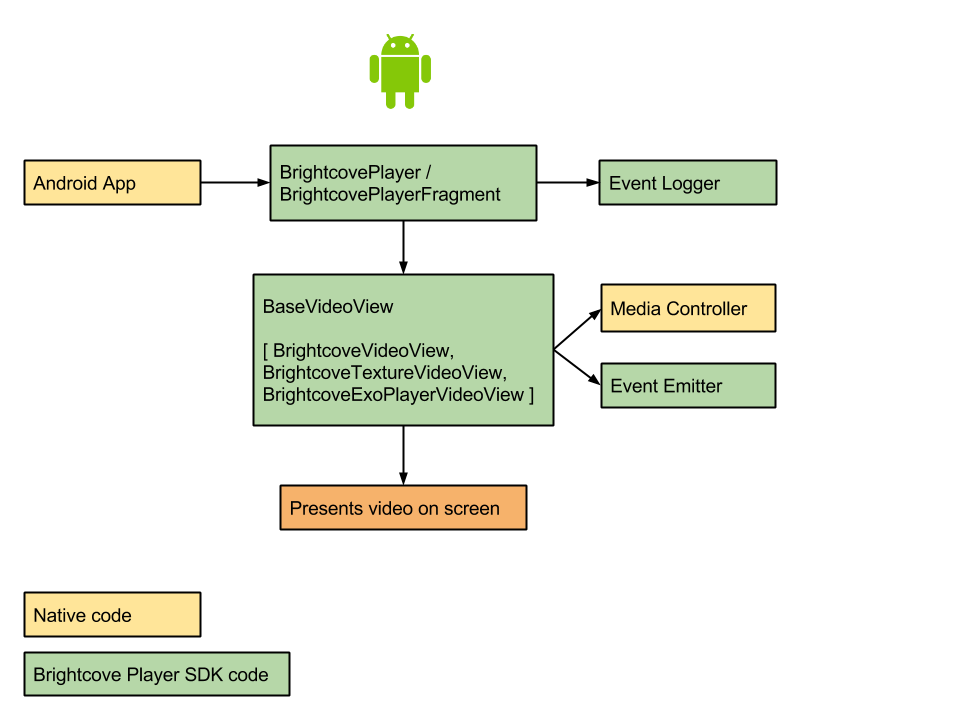
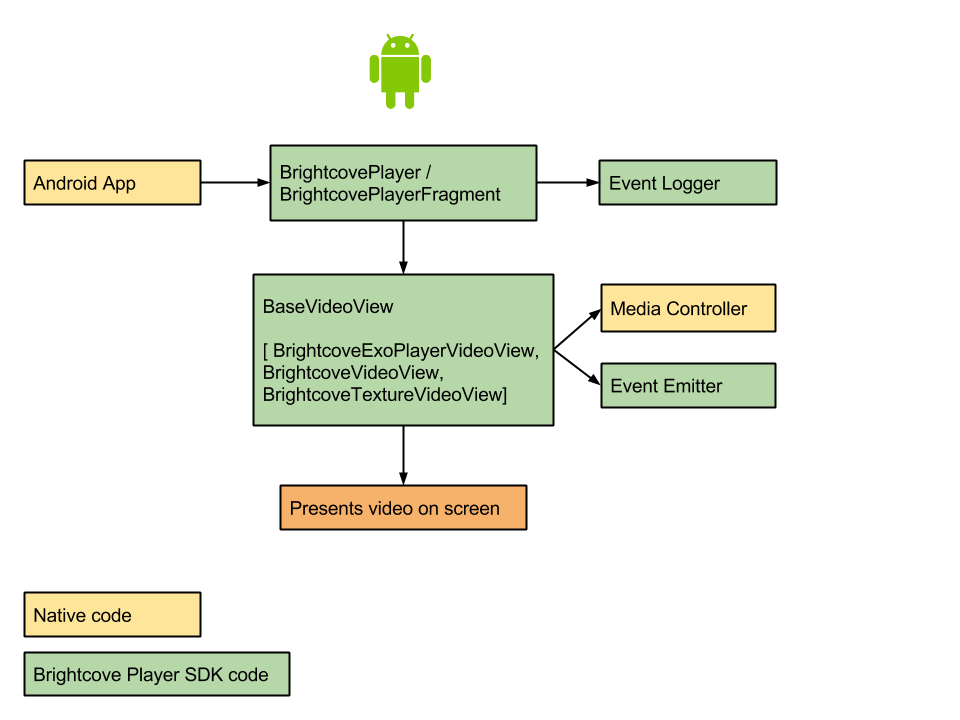
update Android docs for ExoPlayerVideoView

Changed region(s): [[0.375, 0.4583, 0.5625, 0.5806]]

diff --git a/en/perform/mobile-sdks/brightcove-player-sdk-for-android/getting-started/basevideoview.html b/en/perform/mobile-sdks/brightcove-player-sdk-for-android/getting-started/basevideoview.html
@@ -54,17 +54,17 @@
                 <p>The <code>BaseVideoView</code> subclasses can be used outside of a <code>BrightcovePlayer</code> or <code>BrightcovePlayerFragment</code>, but require life cycle management and full screen support to be implemented by the developer.</p>
                     <p>The subclasses for the <code>BaseVideoView</code> can be divided into the following categories:</p>
 
+                <h3>Basic and HLS video playback</h3>
+                <ul>
+                    <li><code>BrightcoveExoPlayerVideoView</code>
+                    <p>This class is designed to replace Android's native <code>VideoView</code>. It provides public methods to mirror that of <code>VideoView</code> and is a Java collection-like API for managing the internal playlist. It uses the Event workflow and will emit events related to video playback.</p>
+                    <p>This class also provides improved support for HLS playback by leveraging Google's ExoPlayer library. </p>
+                    <p>It is recommended to use this class for basic and HLS playback. For more details, see the <a href="../../hls-player/guides/exoplayer.html">HLS Playback with the Player SDK</a> document.</p></li>
+                </ul>
                 <h3>Basic video playback</h3>
                 <ul>
                     <li><code>BrightcoveVideoView</code> 
-                    <p>This class is designed to replace Android's native <code>VideoView</code>. It provides public methods to mirror that of <code>VideoView</code> and is a Java collection-like API for managing the internal playlist. It uses the Event workflow and will emit events related to video playback.</p>
                     <p>This class is designed to work with Android's <code>MediaController</code> class to provide a controller for video playback that matches the device and OS version. </p></li>
-                </ul>
-                <h3>HLS video playback</h3>
-                <ul>
-                    <li><code>BrightcoveExoPlayerVideoView</code>
-                    <p>This class provides improved support for HLS playback by leveraging Google's ExoPlayer library. </p>
-                    <p>It is recommended to use this class for HLS playback. For more details, see the <a href="../../hls-player/guides/exoplayer.html">HLS Playback with the Player SDK</a> document.</p></li>
                 </ul>
                 <h3>Video playback with animation</h3>
                 <ul>

diff --git a/en/video-cloud/mobile-sdks/brightcove-player-sdk-for-android/getting-started/basevideoview.html b/en/video-cloud/mobile-sdks/brightcove-player-sdk-for-android/getting-started/basevideoview.html
@@ -54,17 +54,17 @@
                 <p>The <code>BaseVideoView</code> subclasses can be used outside of a <code>BrightcovePlayer</code> or <code>BrightcovePlayerFragment</code>, but require life cycle management and full screen support to be implemented by the developer.</p>
                     <p>The subclasses for the <code>BaseVideoView</code> can be divided into the following categories:</p>
 
+                <h3>Basic and HLS video playback</h3>
+                <ul>
+                    <li><code>BrightcoveExoPlayerVideoView</code>
+                    <p>This class is designed to replace Android's native <code>VideoView</code>. It provides public methods to mirror that of <code>VideoView</code> and is a Java collection-like API for managing the internal playlist. It uses the Event workflow and will emit events related to video playback.</p>
+                    <p>This class also provides improved support for HLS playback by leveraging Google's ExoPlayer library. </p>
+                    <p>It is recommended to use this class for basic and HLS playback. For more details, see the <a href="../../hls-player/guides/exoplayer.html">HLS Playback with the Player SDK</a> document.</p></li>
+                </ul>
                 <h3>Basic video playback</h3>
                 <ul>
                     <li><code>BrightcoveVideoView</code> 
-                    <p>This class is designed to replace Android's native <code>VideoView</code>. It provides public methods to mirror that of <code>VideoView</code> and is a Java collection-like API for managing the internal playlist. It uses the Event workflow and will emit events related to video playback.</p>
                     <p>This class is designed to work with Android's <code>MediaController</code> class to provide a controller for video playback that matches the device and OS version. </p></li>
-                </ul>
-                <h3>HLS video playback</h3>
-                <ul>
-                    <li><code>BrightcoveExoPlayerVideoView</code>
-                    <p>This class provides improved support for HLS playback by leveraging Google's ExoPlayer library. </p>
-                    <p>It is recommended to use this class for HLS playback. For more details, see the <a href="../../hls-player/guides/exoplayer.html">HLS Playback with the Player SDK</a> document.</p></li>
                 </ul>
                 <h3>Video playback with animation</h3>
                 <ul>

diff --git a/en/perform/mobile-sdks/brightcove-player-sdk-for-android/getting-started/brightcoveplayer.html b/en/perform/mobile-sdks/brightcove-player-sdk-for-android/getting-started/brightcoveplayer.html
@@ -44,12 +44,12 @@
           <!-- content starts here -->
                 <p>The 
                   <code>BrightcovePlayer</code> class is a basic Activity, which wraps a
-                  <code>BrightcoveVideoView</code> and sets up an
+                  <code>BrightcoveExoPlayerVideoView</code> and sets up an
                   <code>EventLogger</code> and default
                   <code>MediaController</code>. It implements basic lifecycle management and full screen logic. It is meant to be subclassed.</p> 
               <p>At a minimum the
-                  <code>onCreate()</code> method should be overridden with logic to wire up the <code>BrightcoveVideoView</code> variable to the <strong>layout.xml</strong> file. For example:</p>
-              <pre><code>brightcoveVideoView = (BrightcoveVideoView) findViewById(R.id.bc_video_view);</code></pre>
+                  <code>onCreate()</code> method should be overridden with logic to wire up the <code>BrightcoveExoPlayerVideoView</code> variable to the <strong>layout.xml</strong> file. For example:</p>
+              <pre><code>brightcoveVideoView = (BrightcoveExoPlayerVideoView) findViewById(R.id.brightcove_video_view);</code></pre>
             <p>If you want to combine the Brightcove Player with other design elements in your layout, you may choose to use the <code>BrightcovePlayerFragment</code>. This is useful when designing for a tablet or larger screen, which has more room to combine UI components.</p>
             
             </div>

diff --git a/en/video-cloud/mobile-sdks/brightcove-player-sdk-for-android/getting-started/brightcoveplayer.html b/en/video-cloud/mobile-sdks/brightcove-player-sdk-for-android/getting-started/brightcoveplayer.html
@@ -44,12 +44,12 @@
           <!-- content starts here -->
                 <p>The 
                   <code>BrightcovePlayer</code> class is a basic Activity, which wraps a
-                  <code>BrightcoveVideoView</code> and sets up an
+                  <code>BrightcoveExoPlayerVideoView</code> and sets up an
                   <code>EventLogger</code> and default
                   <code>MediaController</code>. It implements basic lifecycle management and full screen logic. It is meant to be subclassed.</p> 
               <p>At a minimum the
-                  <code>onCreate()</code> method should be overridden with logic to wire up the <code>BrightcoveVideoView</code> variable to the <strong>layout.xml</strong> file. For example:</p>
-              <pre><code>brightcoveVideoView = (BrightcoveVideoView) findViewById(R.id.bc_video_view);</code></pre>
+                  <code>onCreate()</code> method should be overridden with logic to wire up the <code>BrightcoveExoPlayerVideoView</code> variable to the <strong>layout.xml</strong> file. For example:</p>
+              <pre><code>brightcoveVideoView = (BrightcoveExoPlayerVideoView) findViewById(R.id.brightcove_video_view);</code></pre>
             <p>If you want to combine the Brightcove Player with other design elements in your layout, you may choose to use the <code>BrightcovePlayerFragment</code>. This is useful when designing for a tablet or larger screen, which has more room to combine UI components.</p>
             
             </div>
